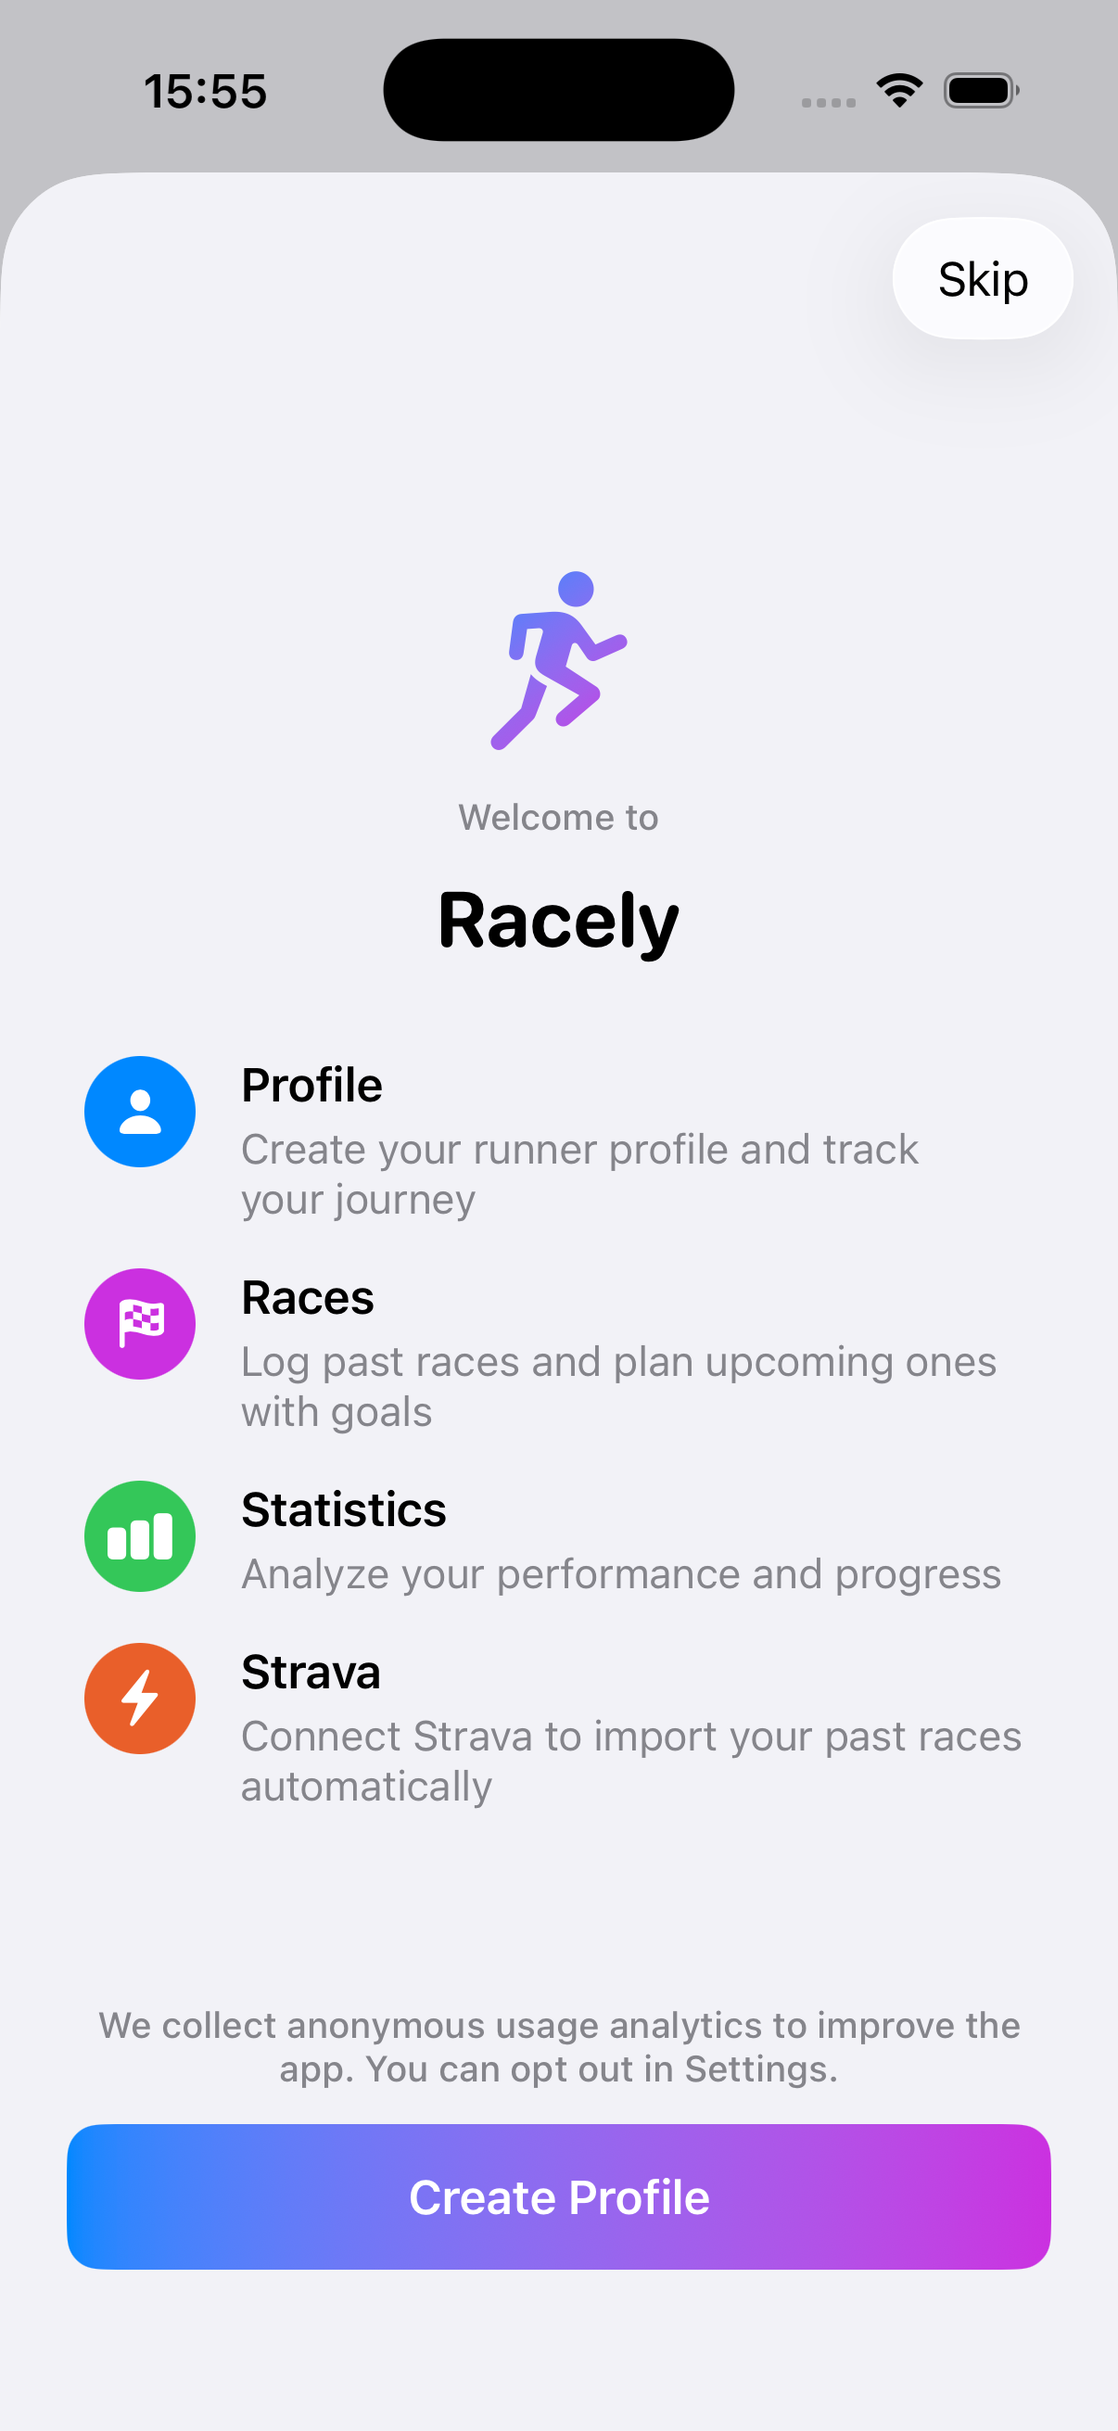
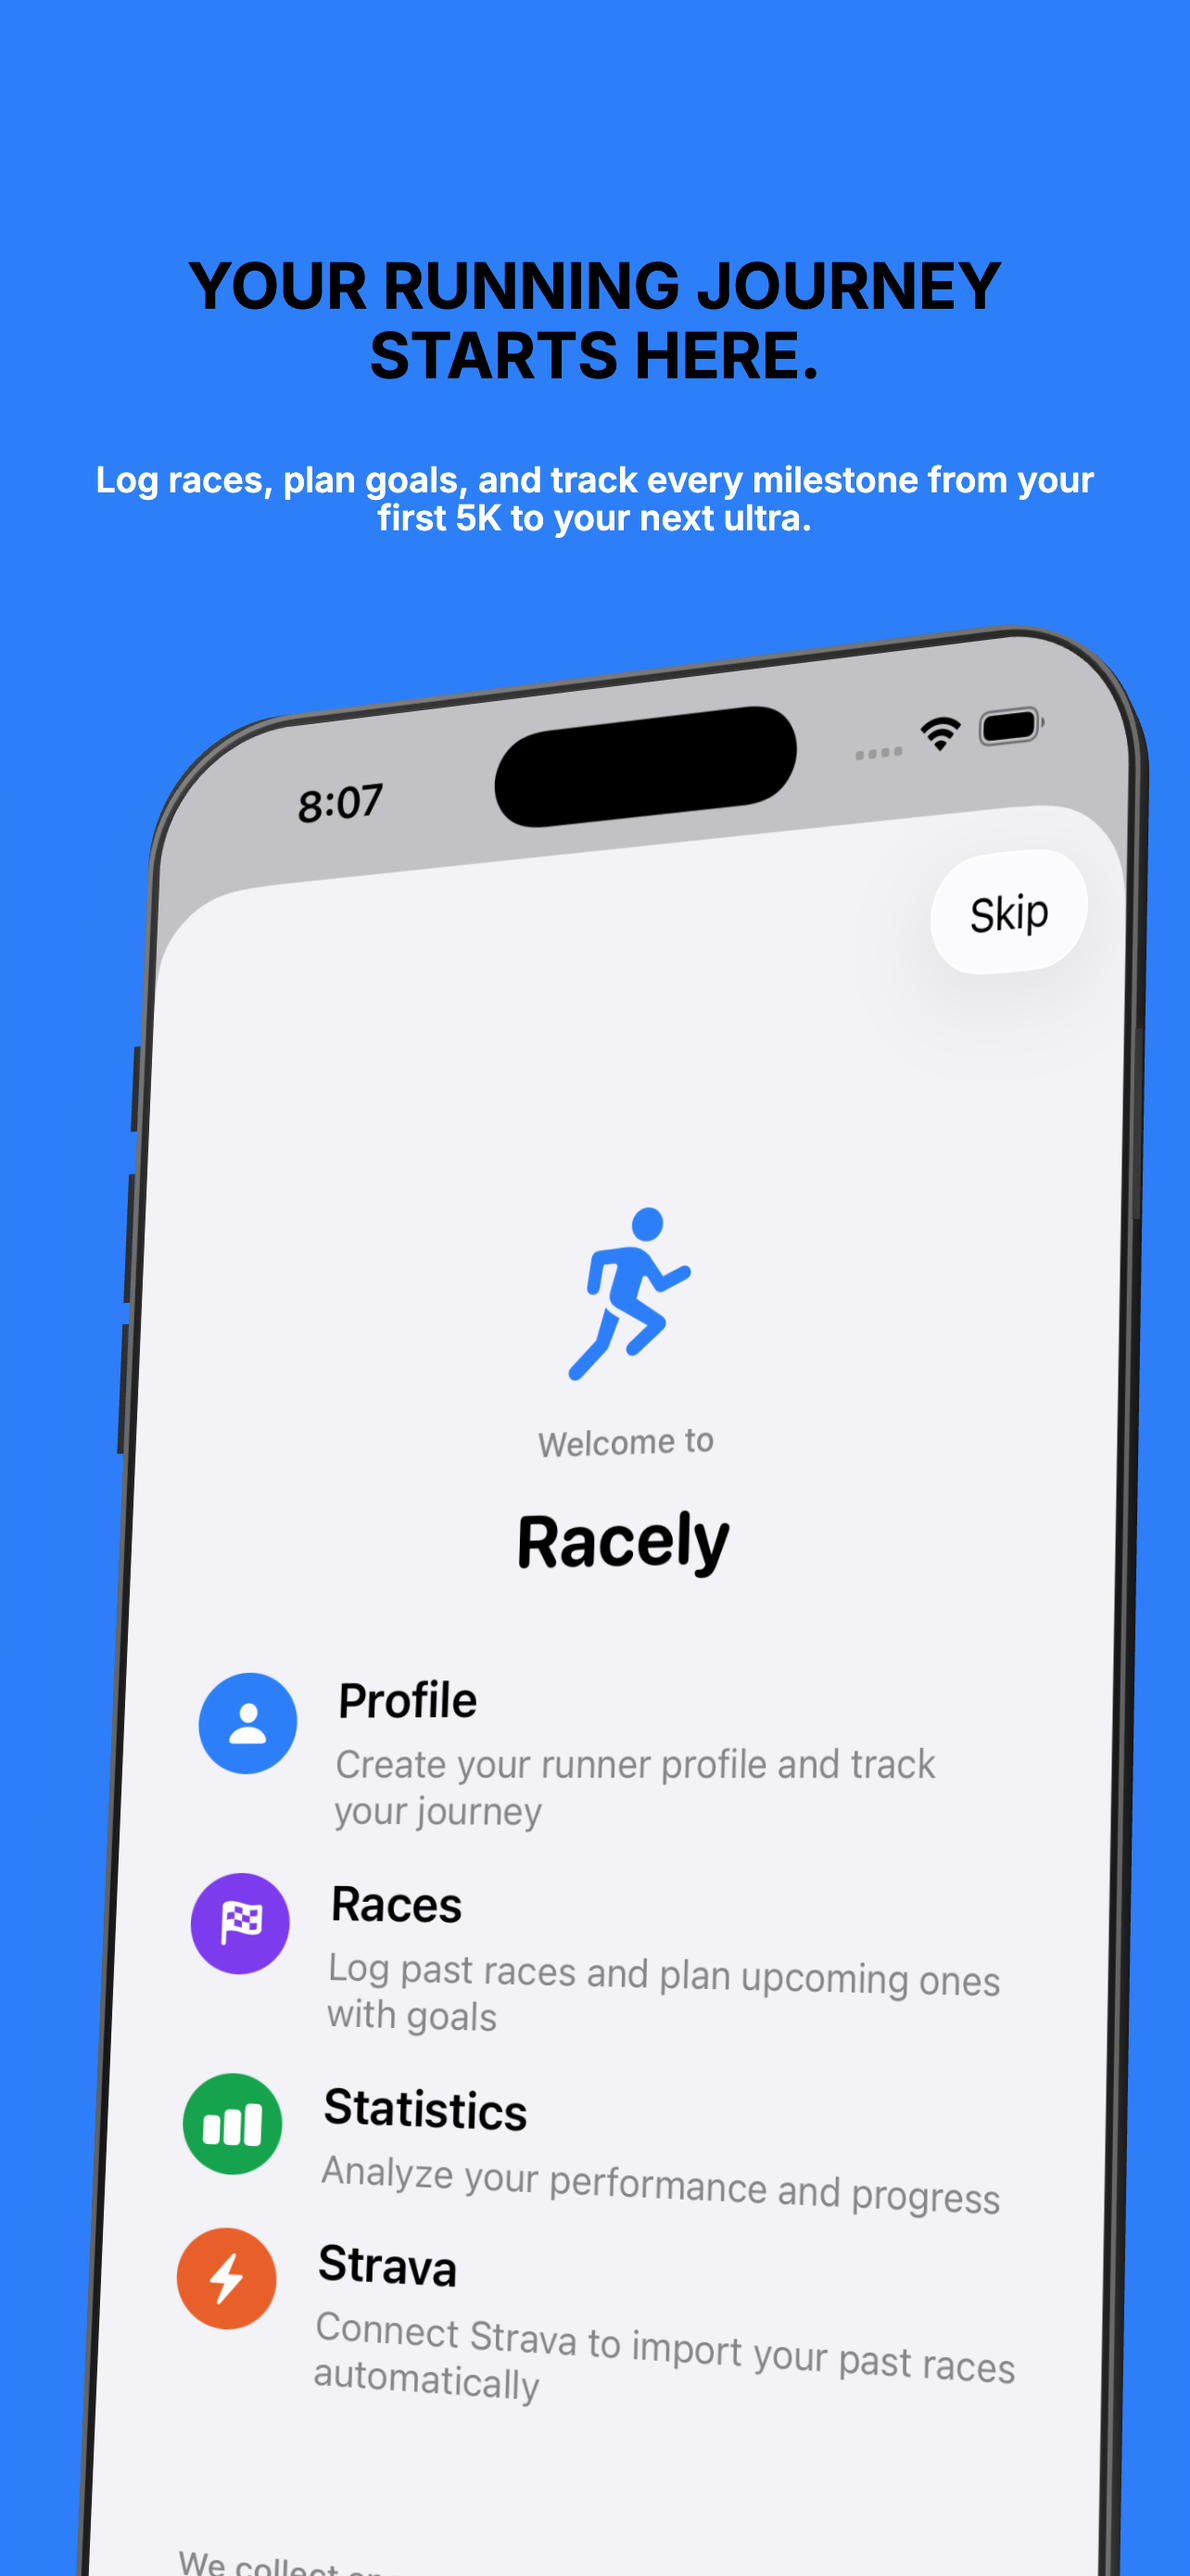
feat: update landing page with new screenshots and add .gitignore
- Refresh all screenshots (past races list, upcoming races map, profile, stats, onboarding)
- Update index.html with landing page improvements
- Add .gitignore to exclude .DS_Store files

diff --git a/index.html b/index.html
@@ -784,12 +784,13 @@
 
     /* ── FAQ ── */
     .faq-wrap {
-      padding: 100px 0;
+      padding: 72px 0;
     }
 
     .faq-hd {
-      text-align: center;
-      margin-bottom: 56px;
+      text-align: left;
+      max-width: 720px;
+      margin: 0 auto 56px;
     }
 
     .faq-list {
@@ -799,7 +800,7 @@
       flex-direction: column;
       gap: 0;
       border: 1px solid var(--border-strong);
-      border-radius: var(--radius-lg);
+      border-radius: 12px;
       overflow: hidden;
     }
 
@@ -836,38 +837,42 @@
 
     .faq-chevron {
       flex-shrink: 0;
-      width: 20px;
-      height: 20px;
-      border-radius: 50%;
-      background: var(--bg-alt);
-      border: 1px solid var(--border);
+      width: 16px;
+      height: 16px;
       display: flex;
       align-items: center;
       justify-content: center;
-      transition: transform var(--ease), background var(--ease);
+      transition: transform var(--ease);
     }
 
     .faq-chevron svg {
       width: 10px;
       height: 10px;
       stroke: var(--text-2);
-      transition: stroke var(--ease);
+      transition: stroke 0.2s;
     }
 
     .faq-item.open .faq-chevron {
       transform: rotate(180deg);
-      background: var(--blue);
-      border-color: transparent;
     }
 
     .faq-item.open .faq-chevron svg {
-      stroke: #fff;
+      stroke: var(--blue);
+    }
+
+    .faq-item.open .faq-question {
+      color: var(--blue);
     }
 
     .faq-answer {
       display: grid;
       grid-template-rows: 0fr;
-      transition: grid-template-rows 0.35s ease;
+      transition: grid-template-rows 0.4s cubic-bezier(0.16, 1, 0.3, 1);
+    }
+
+    @media (prefers-reduced-motion: reduce) {
+      .faq-answer { transition: none; }
+      .faq-chevron { transition: none; }
     }
 
     .faq-item.open .faq-answer {
@@ -941,6 +946,95 @@
     .footer-love {
       font-size: 13px;
       color: var(--text-3);
+    }
+
+    /* ── SCREENSHOTS ── */
+    .screenshots-wrap {
+      padding: 96px 0;
+      overflow: hidden;
+    }
+
+    .screenshots-hd {
+      text-align: center;
+      margin-bottom: 52px;
+    }
+
+    .screenshots-scroll {
+      overflow-x: auto;
+      -webkit-overflow-scrolling: touch;
+      scrollbar-width: none;
+      padding-bottom: 8px;
+    }
+
+    .screenshots-scroll::-webkit-scrollbar { display: none; }
+
+    .screenshots-track {
+      display: flex;
+      gap: 20px;
+      justify-content: center;
+      min-width: max-content;
+      padding: 12px 32px 20px;
+    }
+
+    .phone-frame {
+      display: flex;
+      flex-direction: column;
+      align-items: center;
+      gap: 14px;
+      flex-shrink: 0;
+    }
+
+    .phone-frame img {
+      width: 200px;
+      border-radius: 20px;
+      display: block;
+      border: 1px solid var(--border-strong);
+      box-shadow:
+        0 4px 16px rgba(0,0,0,0.08),
+        0 16px 48px rgba(0,0,0,0.10);
+      transition: transform 0.3s ease, box-shadow 0.3s ease;
+    }
+
+    .phone-frame:hover img {
+      transform: translateY(-6px);
+      box-shadow:
+        0 8px 24px rgba(0,0,0,0.10),
+        0 28px 64px rgba(0,0,0,0.14);
+    }
+
+    [data-theme="dark"] .phone-frame img {
+      border-color: rgba(255,255,255,0.10);
+      box-shadow:
+        0 4px 16px rgba(0,0,0,0.28),
+        0 16px 48px rgba(0,0,0,0.42);
+    }
+
+    [data-theme="dark"] .phone-frame:hover img {
+      box-shadow:
+        0 8px 24px rgba(0,0,0,0.32),
+        0 28px 64px rgba(0,0,0,0.54);
+    }
+
+    .phone-label {
+      font-family: var(--font-display);
+      font-size: 15px;
+      font-weight: 400;
+      color: var(--text-2);
+      letter-spacing: -0.01em;
+      text-align: center;
+      transition: color var(--ease);
+    }
+
+    .phone-frame:hover .phone-label { color: var(--text); }
+
+    @media (max-width: 960px) {
+      .screenshots-track { justify-content: flex-start; }
+    }
+
+    @media (max-width: 640px) {
+      .screenshots-wrap { padding: 72px 0; }
+      .screenshots-track { padding: 12px 20px 20px; gap: 14px; }
+      .phone-frame img { width: 160px; border-radius: 16px; }
     }
 
     /* ── SKIP LINK ── */
@@ -1050,6 +1144,7 @@
         <a href="#" class="nav-logo"><span>Racely</span></a>
         <div class="nav-right">
           <ul class="nav-links">
+            <li><a href="#screenshots">Screenshots</a></li>
             <li><a href="#features">Features</a></li>
             <li><a href="#race-types">Race Types</a></li>
             <li><a href="#faq">FAQ</a></li>
@@ -1098,6 +1193,46 @@
         <span class="stat-pill"><span class="pill-dot" style="background:var(--orange)"></span>Free to Download</span>
       </div>
 
+    </div>
+  </section>
+
+  <!-- ── SCREENSHOTS ── -->
+  <section id="screenshots" class="screenshots-wrap">
+    <div class="container">
+      <div class="screenshots-hd reveal">
+        <p class="kicker">Screenshots</p>
+        <h2 class="section-h">Built for runners, <em>by a runner</em></h2>
+      </div>
+    </div>
+    <div class="screenshots-scroll">
+      <div class="screenshots-track">
+
+        <div class="phone-frame reveal">
+          <img src="screenshots/onboarding.png" alt="Onboarding screen" loading="lazy" />
+          <p class="phone-label">Onboarding</p>
+        </div>
+
+        <div class="phone-frame reveal">
+          <img src="screenshots/past_races_list.png" alt="Past Races screen" loading="lazy" />
+          <p class="phone-label">Past Races</p>
+        </div>
+
+        <div class="phone-frame reveal">
+          <img src="screenshots/upcoming_races_map.png" alt="Upcoming Races screen" loading="lazy" />
+          <p class="phone-label">Upcoming Races</p>
+        </div>
+
+        <div class="phone-frame reveal">
+          <img src="screenshots/stats.png" alt="Statistics screen" loading="lazy" />
+          <p class="phone-label">Stats</p>
+        </div>
+
+        <div class="phone-frame reveal">
+          <img src="screenshots/profile.png" alt="Profile screen" loading="lazy" />
+          <p class="phone-label">Profile</p>
+        </div>
+
+      </div>
     </div>
   </section>
 
@@ -1332,8 +1467,8 @@
     <div class="container">
 
       <div class="faq-hd reveal">
-        <p class="kicker">Got questions?</p>
-        <h2 class="section-h">Frequently Asked <em>Questions</em></h2>
+        <p class="kicker">Questions</p>
+        <h2 class="section-h">Frequently Asked Questions</h2>
       </div>
 
       <div class="faq-list reveal">
@@ -1343,7 +1478,15 @@
             Is Racely free?
             <span class="faq-chevron"><svg viewBox="0 0 10 6" fill="none" stroke-linecap="round" stroke-linejoin="round"><path d="M1 1l4 4 4-4" stroke-width="1.5"/></svg></span>
           </button>
-          <div class="faq-answer"><div class="faq-answer-inner">Yes, Racely is completely free to download and use.</div></div>
+          <div class="faq-answer"><div class="faq-answer-inner">Yes — free to download and use, no subscription required. No plans to change that.</div></div>
+        </div>
+
+        <div class="faq-item">
+          <button class="faq-question" aria-expanded="false">
+            Does Racely track my runs with GPS?
+            <span class="faq-chevron"><svg viewBox="0 0 10 6" fill="none" stroke-linecap="round" stroke-linejoin="round"><path d="M1 1l4 4 4-4" stroke-width="1.5"/></svg></span>
+          </button>
+          <div class="faq-answer"><div class="faq-answer-inner">No — Racely is a race log, not a GPS tracker. You enter your finish time after the race (or import it from Strava). Think of it as your personal race record book, not a training app.</div></div>
         </div>
 
         <div class="faq-item">
@@ -1351,39 +1494,15 @@
             Is it available on iPad or Mac?
             <span class="faq-chevron"><svg viewBox="0 0 10 6" fill="none" stroke-linecap="round" stroke-linejoin="round"><path d="M1 1l4 4 4-4" stroke-width="1.5"/></svg></span>
           </button>
-          <div class="faq-answer"><div class="faq-answer-inner">Racely is an iPhone app. Your data syncs automatically via iCloud, so your full race history is always backed up — switch to a new iPhone or reinstall and everything comes right back.</div></div>
+          <div class="faq-answer"><div class="faq-answer-inner">iPhone only for now. Your race history syncs automatically via iCloud, so switching to a new iPhone or reinstalling brings everything right back.</div></div>
         </div>
 
         <div class="faq-item">
           <button class="faq-question" aria-expanded="false">
-            How does iCloud sync work?
+            What distances and race types does Racely support?
             <span class="faq-chevron"><svg viewBox="0 0 10 6" fill="none" stroke-linecap="round" stroke-linejoin="round"><path d="M1 1l4 4 4-4" stroke-width="1.5"/></svg></span>
           </button>
-          <div class="faq-answer"><div class="faq-answer-inner">Automatically — there's nothing to set up. As long as you're signed into your Apple ID, your data syncs silently in the background across all your devices.</div></div>
-        </div>
-
-        <div class="faq-item">
-          <button class="faq-question" aria-expanded="false">
-            Can I import races from Strava?
-            <span class="faq-chevron"><svg viewBox="0 0 10 6" fill="none" stroke-linecap="round" stroke-linejoin="round"><path d="M1 1l4 4 4-4" stroke-width="1.5"/></svg></span>
-          </button>
-          <div class="faq-answer"><div class="faq-answer-inner">Yes. Connect your Strava account in the app and your runs tagged as "Race" are imported instantly.</div></div>
-        </div>
-
-        <div class="faq-item">
-          <button class="faq-question" aria-expanded="false">
-            Is my data private?
-            <span class="faq-chevron"><svg viewBox="0 0 10 6" fill="none" stroke-linecap="round" stroke-linejoin="round"><path d="M1 1l4 4 4-4" stroke-width="1.5"/></svg></span>
-          </button>
-          <div class="faq-answer"><div class="faq-answer-inner">Yes. Your race data is stored in Apple's iCloud and never shared with third parties.</div></div>
-        </div>
-
-        <div class="faq-item">
-          <button class="faq-question" aria-expanded="false">
-            Can I use Racely offline?
-            <span class="faq-chevron"><svg viewBox="0 0 10 6" fill="none" stroke-linecap="round" stroke-linejoin="round"><path d="M1 1l4 4 4-4" stroke-width="1.5"/></svg></span>
-          </button>
-          <div class="faq-answer"><div class="faq-answer-inner">Yes — everything works offline. The only feature that requires internet is importing races from Strava.</div></div>
+          <div class="faq-answer"><div class="faq-answer-inner">5K, 10K, Half Marathon, Marathon, and Ultra out of the box — plus a Custom distance for anything else. Road, Trail, and Track race types are all supported.</div></div>
         </div>
 
         <div class="faq-item">
@@ -1391,7 +1510,47 @@
             Does Racely have widgets?
             <span class="faq-chevron"><svg viewBox="0 0 10 6" fill="none" stroke-linecap="round" stroke-linejoin="round"><path d="M1 1l4 4 4-4" stroke-width="1.5"/></svg></span>
           </button>
-          <div class="faq-answer"><div class="faq-answer-inner">Yes! Two widgets, each available in two sizes: Personal Bests (your top performances at a glance) and Upcoming Race (countdown to your next start line).</div></div>
+          <div class="faq-answer"><div class="faq-answer-inner">Yes. Two widgets, each in two sizes: Personal Bests (your top performances at a glance) and Upcoming Race (countdown to your next start line).</div></div>
+        </div>
+
+        <div class="faq-item">
+          <button class="faq-question" aria-expanded="false">
+            How does iCloud sync work?
+            <span class="faq-chevron"><svg viewBox="0 0 10 6" fill="none" stroke-linecap="round" stroke-linejoin="round"><path d="M1 1l4 4 4-4" stroke-width="1.5"/></svg></span>
+          </button>
+          <div class="faq-answer"><div class="faq-answer-inner">Automatically — nothing to set up. Sign into your Apple ID and your data syncs silently in the background. The app works fully without iCloud too; data just stays on-device.</div></div>
+        </div>
+
+        <div class="faq-item">
+          <button class="faq-question" aria-expanded="false">
+            Can I import races from Strava?
+            <span class="faq-chevron"><svg viewBox="0 0 10 6" fill="none" stroke-linecap="round" stroke-linejoin="round"><path d="M1 1l4 4 4-4" stroke-width="1.5"/></svg></span>
+          </button>
+          <div class="faq-answer"><div class="faq-answer-inner">Yes. Connect your Strava account in Settings and any activity you've marked as a Race in Strava is imported instantly. Strava is optional — you can log races manually without it.</div></div>
+        </div>
+
+        <div class="faq-item">
+          <button class="faq-question" aria-expanded="false">
+            Is my data private?
+            <span class="faq-chevron"><svg viewBox="0 0 10 6" fill="none" stroke-linecap="round" stroke-linejoin="round"><path d="M1 1l4 4 4-4" stroke-width="1.5"/></svg></span>
+          </button>
+          <div class="faq-answer"><div class="faq-answer-inner">Yes. No account required — your data lives in Apple's iCloud, tied to your Apple ID. It's never sold or shared with third parties.</div></div>
+        </div>
+
+        <div class="faq-item">
+          <button class="faq-question" aria-expanded="false">
+            Can I use Racely offline?
+            <span class="faq-chevron"><svg viewBox="0 0 10 6" fill="none" stroke-linecap="round" stroke-linejoin="round"><path d="M1 1l4 4 4-4" stroke-width="1.5"/></svg></span>
+          </button>
+          <div class="faq-answer"><div class="faq-answer-inner">Yes — everything works offline. The only feature that requires internet is importing from Strava.</div></div>
+        </div>
+
+        <div class="faq-item">
+          <button class="faq-question" aria-expanded="false">
+            Can I export my race data?
+            <span class="faq-chevron"><svg viewBox="0 0 10 6" fill="none" stroke-linecap="round" stroke-linejoin="round"><path d="M1 1l4 4 4-4" stroke-width="1.5"/></svg></span>
+          </button>
+          <div class="faq-answer"><div class="faq-answer-inner">Yes. Go to Profile → Settings → Export Data to download a copy of your full race history as JSON. Your data is always yours.</div></div>
         </div>
 
       </div>
@@ -1465,11 +1624,10 @@
       btn.addEventListener('click', () => {
         const item = btn.closest('.faq-item');
         const isOpen = item.classList.contains('open');
-        document.querySelectorAll('.faq-item.open').forEach(el => {
-          el.classList.remove('open');
-          el.querySelector('.faq-question').setAttribute('aria-expanded', 'false');
-        });
-        if (!isOpen) {
+        if (isOpen) {
+          item.classList.remove('open');
+          btn.setAttribute('aria-expanded', 'false');
+        } else {
           item.classList.add('open');
           btn.setAttribute('aria-expanded', 'true');
         }
